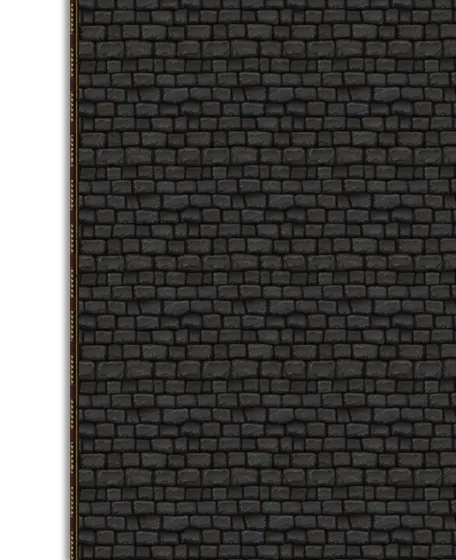
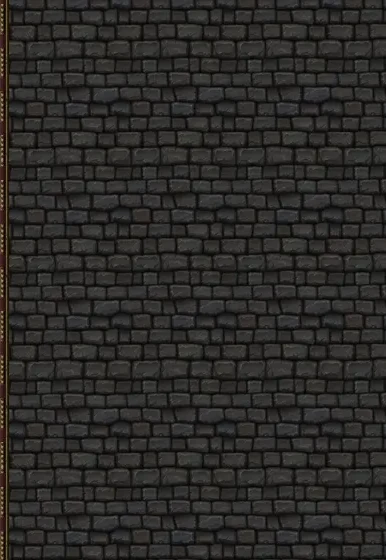
updated styles and images for accurate dimensions for sidebar

diff --git a/css/wfrp4e.css b/css/wfrp4e.css
@@ -808,19 +808,19 @@
     top: 0px;
     right: 0px;
     height: 100vh;
-    width: 456px;
+    width: 392px;
     margin: 0px;
     padding: 0px;
     background: url(../ui/sidebar.webp) repeat;
     background-position-y: 45px;
     border-radius: 0px;
-    box-shadow: 0 0 0px #000;
+    box-shadow: 0 0 10px #000;
     border:none;
   }
   #sidebar .sidebar-tab {
     flex: 1;
     height: calc(100vh - 54px);
-    margin: 0px 0px 0px 80px;
+    margin: 0px 9px 0px 9px;
     padding: 0px 0px 0px 0px;
   }
 
@@ -1005,11 +1005,11 @@
     justify-content: space-evenly;
     position: relative;
     top: 0px;
-    left: 70px;
-    width: 453px;
+    left: 1x;
+    width: 392px;
     height: 52px;
     margin: 0px;
-    padding: 0px 80px 0px 10px;
+    padding: 0px 4px 0px 4px;
     border: none;
     box-shadow: none;
     background: url(../ui/sidebar-border.webp) repeat;
